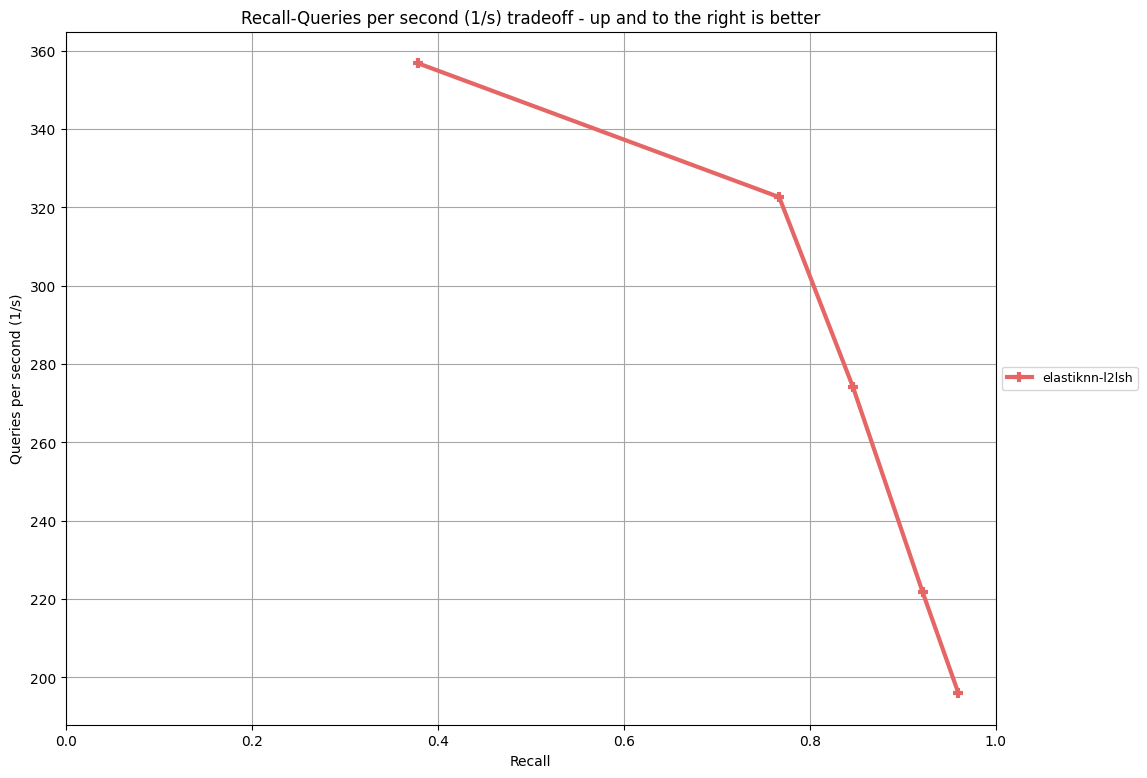
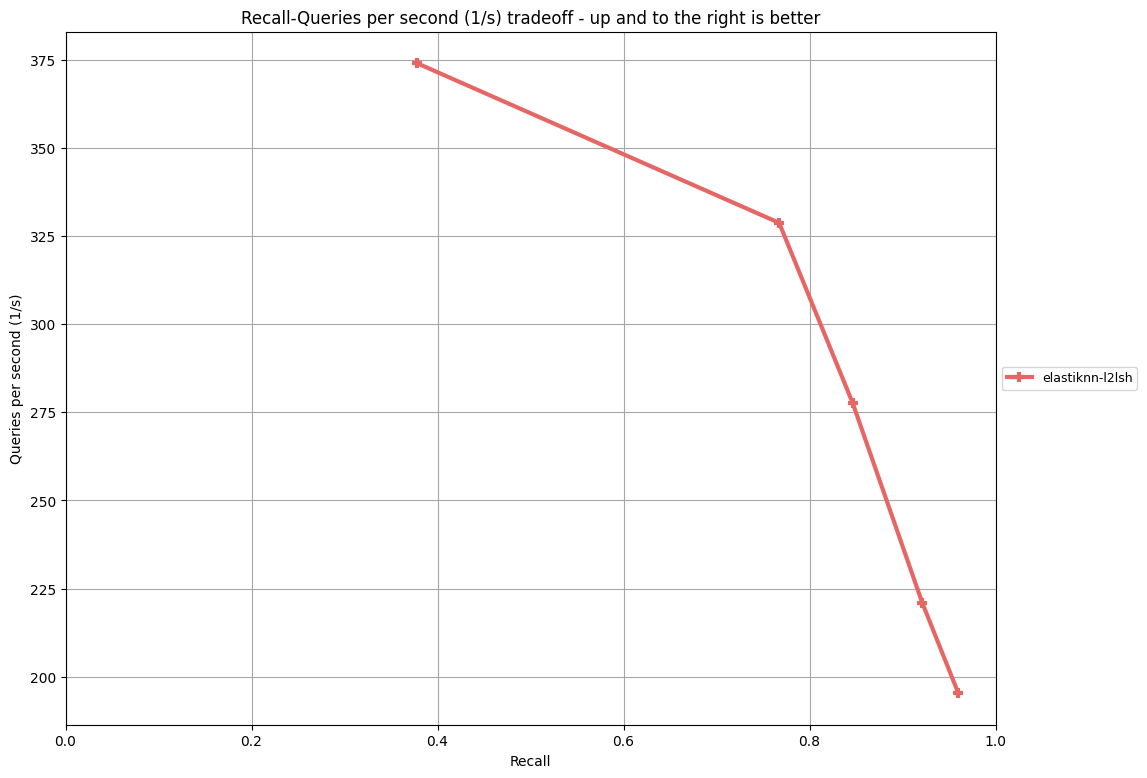
Rerun

diff --git a/docs/pages/performance/fashion-mnist/results.md b/docs/pages/performance/fashion-mnist/results.md
@@ -1,10 +1,10 @@
 |Model|Parameters|Recall|Queries per Second|
 |---|---|---|---|
-|eknn-l2lsh|L=100 k=4 w=1024 candidates=500 probes=0|0.379|356.825|
-|eknn-l2lsh|L=100 k=4 w=1024 candidates=1000 probes=0|0.447|296.054|
-|eknn-l2lsh|L=100 k=4 w=1024 candidates=500 probes=3|0.635|282.858|
-|eknn-l2lsh|L=100 k=4 w=1024 candidates=1000 probes=3|0.717|247.549|
-|eknn-l2lsh|L=100 k=4 w=2048 candidates=500 probes=0|0.767|322.638|
-|eknn-l2lsh|L=100 k=4 w=2048 candidates=1000 probes=0|0.847|274.174|
-|eknn-l2lsh|L=100 k=4 w=2048 candidates=500 probes=3|0.921|221.778|
-|eknn-l2lsh|L=100 k=4 w=2048 candidates=1000 probes=3|0.960|195.968|
+|eknn-l2lsh|L=100 k=4 w=1024 candidates=500 probes=0|0.378|374.060|
+|eknn-l2lsh|L=100 k=4 w=1024 candidates=1000 probes=0|0.447|312.959|
+|eknn-l2lsh|L=100 k=4 w=1024 candidates=500 probes=3|0.634|288.307|
+|eknn-l2lsh|L=100 k=4 w=1024 candidates=1000 probes=3|0.716|248.285|
+|eknn-l2lsh|L=100 k=4 w=2048 candidates=500 probes=0|0.767|328.760|
+|eknn-l2lsh|L=100 k=4 w=2048 candidates=1000 probes=0|0.846|277.776|
+|eknn-l2lsh|L=100 k=4 w=2048 candidates=500 probes=3|0.921|220.903|
+|eknn-l2lsh|L=100 k=4 w=2048 candidates=1000 probes=3|0.960|195.322|
